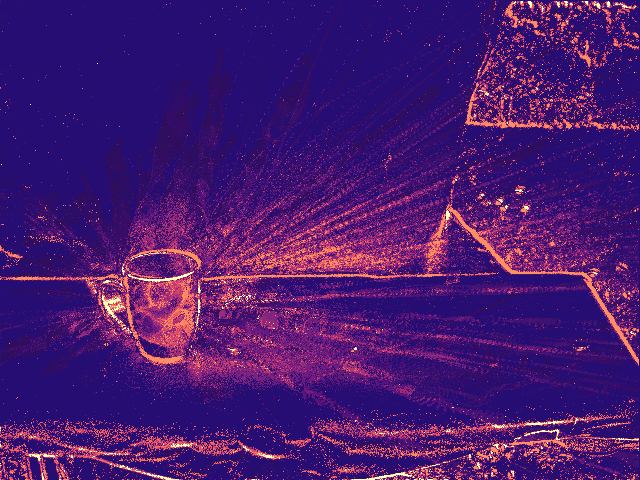
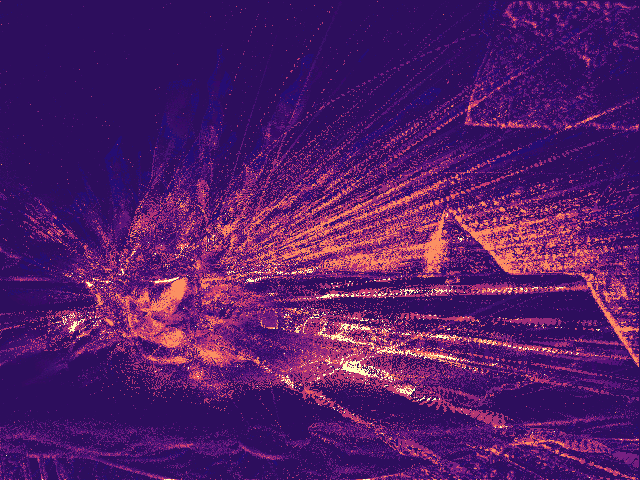
Slide 3: cup false-color panel from the next frame in the sequence

diff --git a/core.tex b/core.tex
@@ -36,10 +36,10 @@
 
 \begin{frame}{Events alone recover a handheld office, a bullet hitting a cup, and Earth from orbit}
 \hookpanels{figures/hook_p1/office_color.png}{figures/hook_p1/cup_color.png}{figures/hook_p1/iss_color.png}
-% source detail: Ch. 2, f:office, f:cup and f:iss (false-color renderings of the same reconstructed frames).
+% source detail: Ch. 2, f:office, f:cup and f:iss (false-color renderings; the cup panel is the next frame in the f:cup sequence, frame 134).
 % source: figures/hook_p1/*_color.png use the palette of the thesis cup false-color figure, indexed by the departure from the background; exporter monocular_reconstruction/artifacts/defense_figures_20261108/export_hook.py.
-\src{\dref{Figure}{f:office}, \dref{Figure}{f:cup}, and \dref{Figure}{f:iss}, false-color renderings of the same reconstructed frames.}
-\talknote{Same scenes in false color; about 45 seconds.}{All three panels now show the same reconstructed frames in false color; grayscale and false color are display choices for the reconstructed relative brightness.}{Why it matters: fast scenes, wide brightness ranges, and platforms with tight power budgets such as drones and spacecraft. On those platforms the estimator must also be cheap and predictable, which the reconstruction chapter quantifies. Transition: what the sensor reports, and why that makes these problems mathematically interesting.}
+\src{\dref{Figure}{f:office}, \dref{Figure}{f:cup}, and \dref{Figure}{f:iss}, false-color renderings.}
+\talknote{Same scenes in false color; about 45 seconds.}{The same scenes in false color, with the cup about 24 ms later as it breaks apart; grayscale and false color are display choices for the reconstructed relative brightness.}{Why it matters: fast scenes, wide brightness ranges, and platforms with tight power budgets such as drones and spacecraft. On those platforms the estimator must also be cheap and predictable, which the reconstruction chapter quantifies. Transition: what the sensor reports, and why that makes these problems mathematically interesting.}
 \end{frame}
 
 \begin{frame}{Why an event camera? Each pixel reports its own changes, with microsecond timing and 140 dB range}
